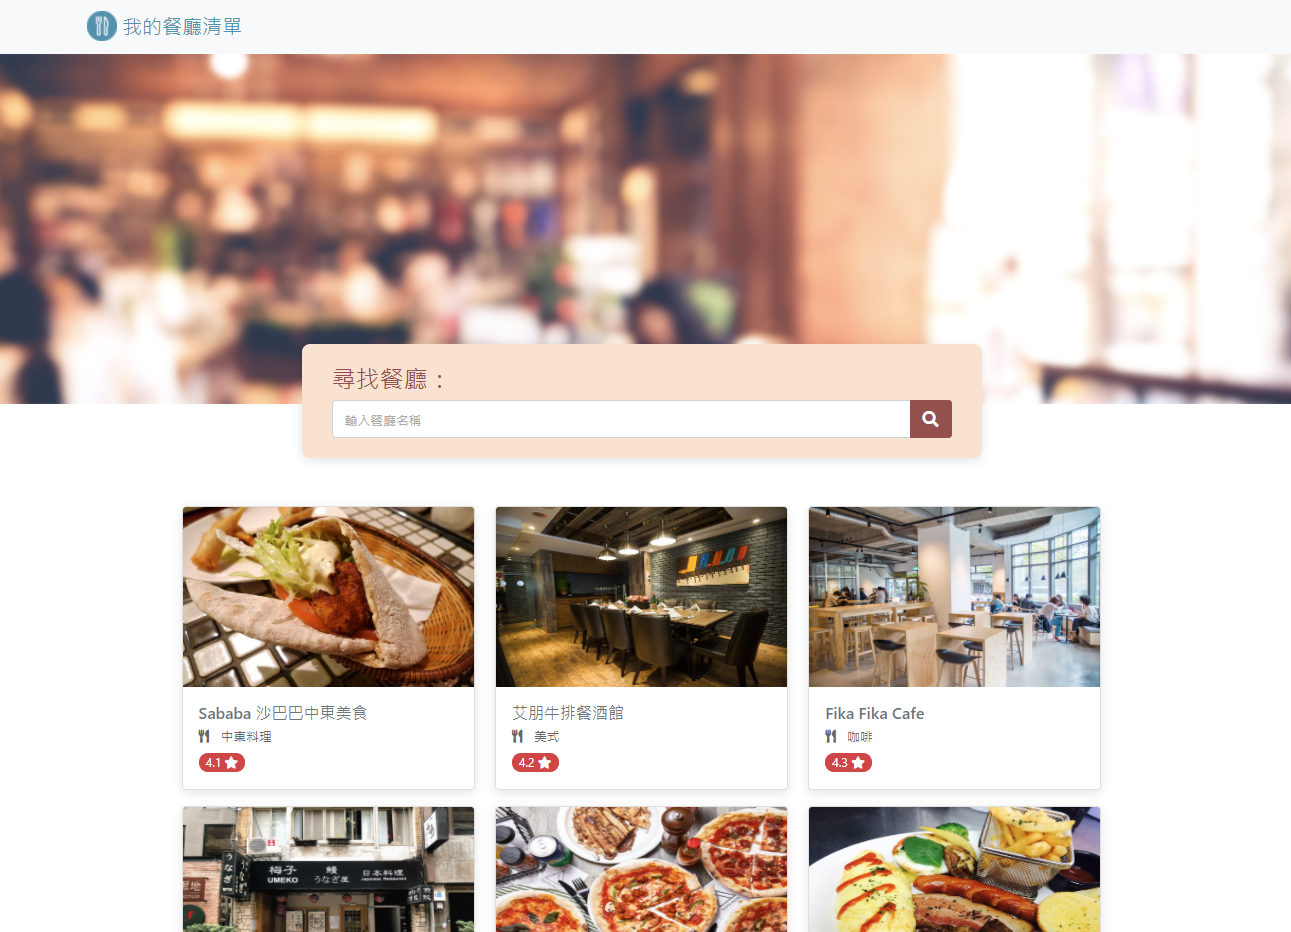
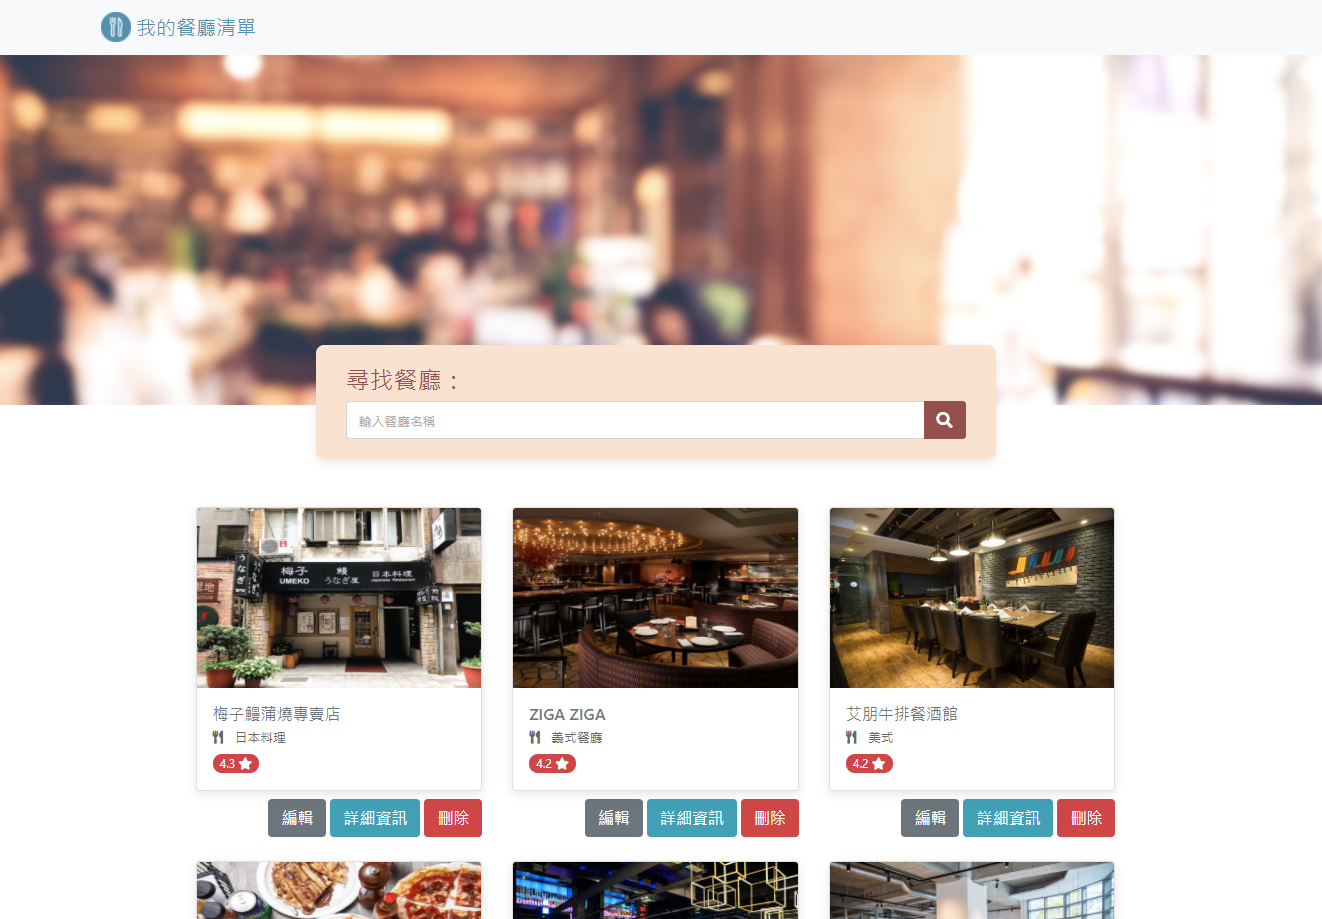
feat: add delete alert modal and change parameter for no search result and update README.md

diff --git a/app.js b/app.js
@@ -23,6 +23,7 @@ app.engine('handlebars', exphbs({ defaultLayout: 'main' }))
 app.set('view engine', 'handlebars')
 app.use(express.static('public'))
 app.use(express.urlencoded({ extended: true }))
+
 // --- route setting ---
 
 // render index page
@@ -37,10 +38,14 @@ app.get('/search', (req, res) => {
   Restaurant.find()
     .lean()
     .then(restaurants => {
+      let noResult = false
       const filteredRestaurants = restaurants.filter(restaurant => {
         return restaurant.name.toLowerCase().includes(req.query.keyword.trim().toLowerCase())
       })
-      res.render('index', { restaurants: filteredRestaurants, keyword: req.query.keyword })
+      if (filteredRestaurants.length === 0) {
+        noResult = true
+      }
+      res.render('index', { restaurants: filteredRestaurants, noResult, keyword: req.query.keyword })
     })
     .catch(err => console.log(err))
 })
@@ -104,6 +109,7 @@ app.post('/restaurants/:restaurant_id/edit', (req, res) => {
 // DELETE function
 app.post('/restaurants/:restaurant_id/delete', (req, res) => {
   const id = req.params.restaurant_id
+
   return Restaurant.findById(id)
     .then(restaurant => restaurant.remove())
     .then(() => res.redirect('/'))

diff --git a/README.md b/README.md
@@ -3,35 +3,44 @@
 ![index image](https://github.com/chriszychen/ac_restaurant-list/blob/main/index.PNG)
 ## Features - 專案功能描述
 1. 使用者可以總覽所有餐廳的名稱、分類、評分
-2. 使用者可以點擊任一餐廳查看該餐廳的詳細資訊，如地址、電話、簡介以及Google map連結
-3. 使用者可以使用中文關鍵字對餐廳名稱進行搜尋
+2. 使用者可以使用中文關鍵字對餐廳名稱進行搜尋
+3. 使用者可以點擊任一餐廳的照片或詳細資訊查看該餐廳的詳細資訊，如地址、電話、簡介以及Google map連結
+4. 使用者可以點擊按鈕新增餐廳
+5. 使用者可以點擊編輯按鈕修改任一餐廳內容
+6. 使用者可以點擊刪除按鈕刪除任一餐廳
 
 ## Prerequisites - 環境建置與需求
 
 * [Node.js v14.16.1](https://nodejs.org/en/)
+* [MongoDB v4.2.14](https://www.mongodb.com/try/download/community)
 
 ## Installation and Execution - 安裝與執行步驟
-打開終端機，使用git clone將專案下載至本地資料夾
+1.打開終端機，使用git clone將專案下載至本地資料夾
 ```
 git clone https://github.com/chriszhchen/ac_restaurant-list.git
 ```
 
-進入專案資料夾
+2.進入專案資料夾
 ```
 cd ac_restaurant-list
 ```
 
-安裝專案需求套件
+3.安裝專案需求套件
 ```
 npm install 
 npm i nodemon
 ```
 
-啟動伺服器
+3.啟動MongoDB資料庫
+4.啟動伺服器
 ```
 npm run dev
 ```
-<br/>
 
-終端機顯示 ```The server is listening on http://localhost:3000``` 代表伺服器成功啟動
-可至瀏覽器網址輸入 http://localhost:3000 瀏覽專案功能
+終端機顯示 ```The server is listening on http://localhost:3000``` 代表伺服器成功啟動<br/>
+顯示 ```mongodb connected!``` 代表伺服器成功與資料庫連接 <br/>
+5.新增種子資料
+```
+npm run seed
+```
+終端機出現 ```Seeder Done!``` 後即可至瀏覽器網址輸入 http://localhost:3000 瀏覽專案功能
